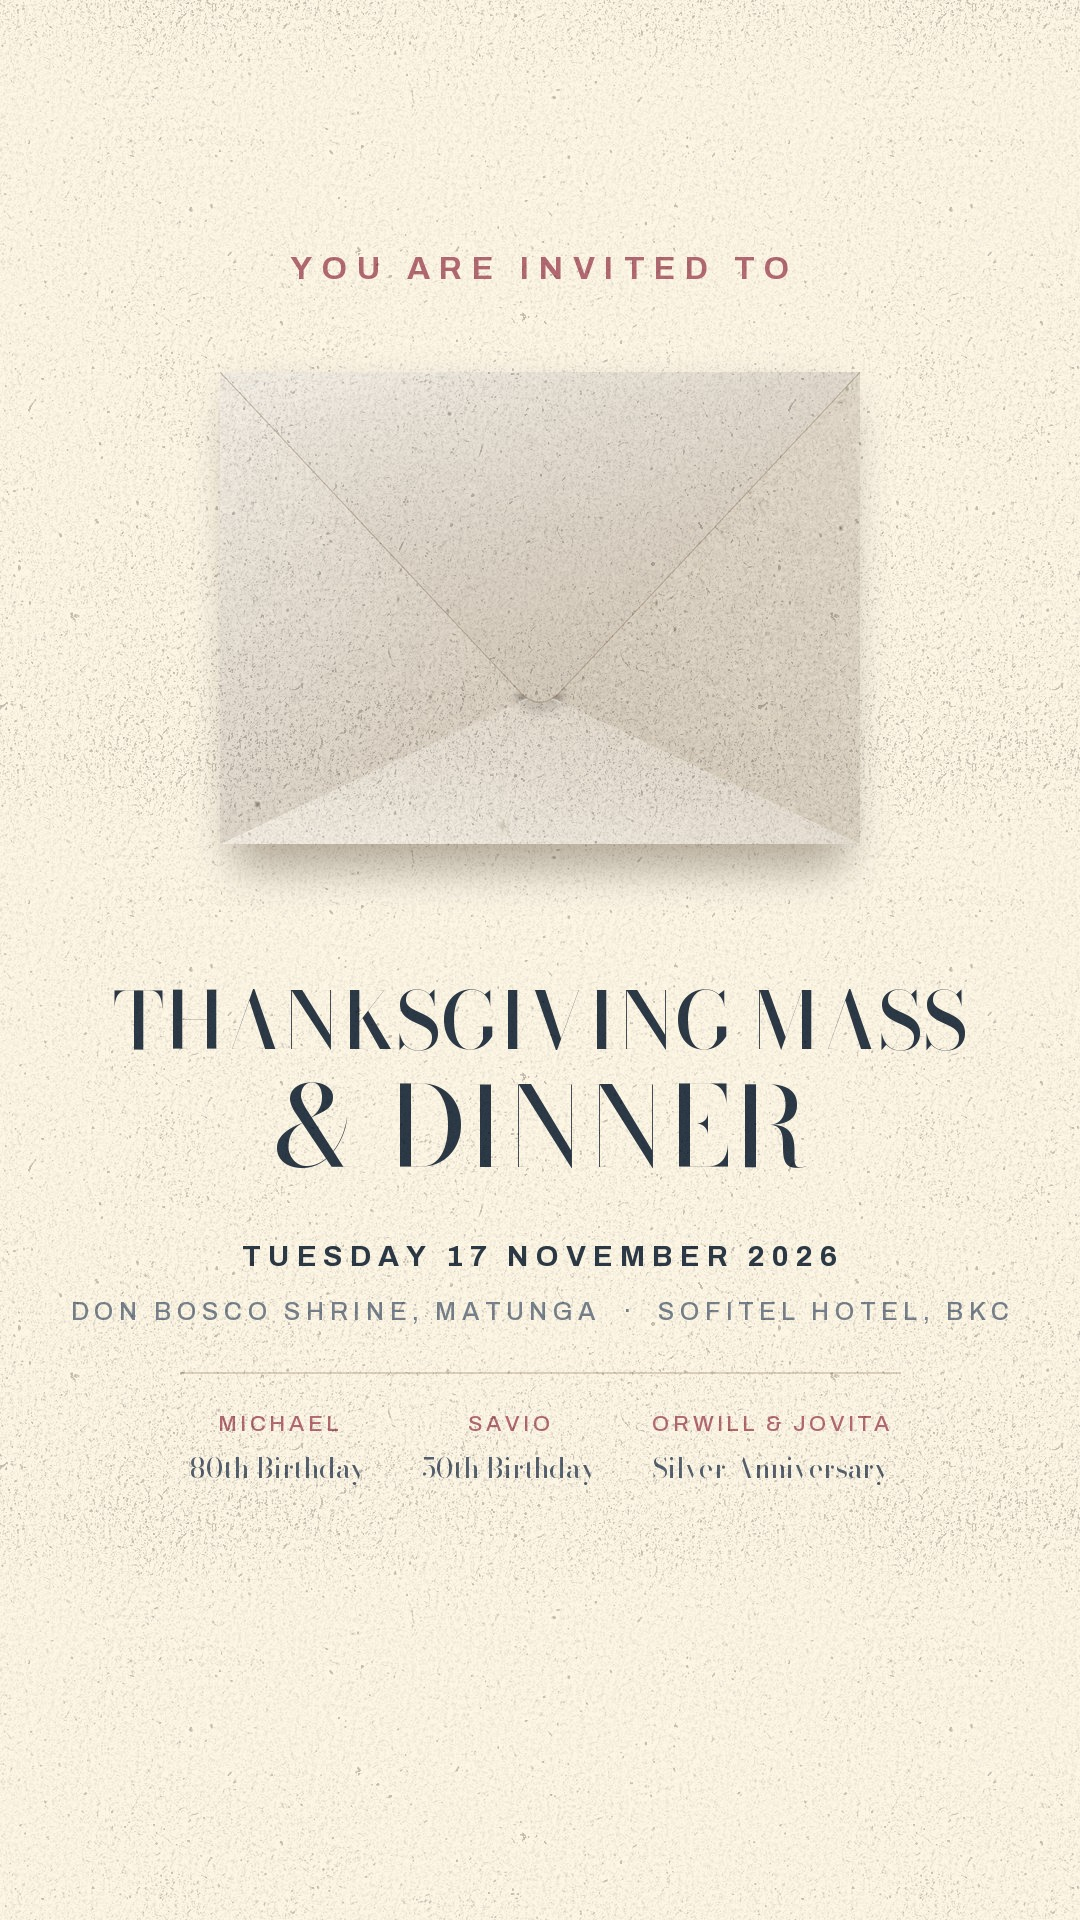
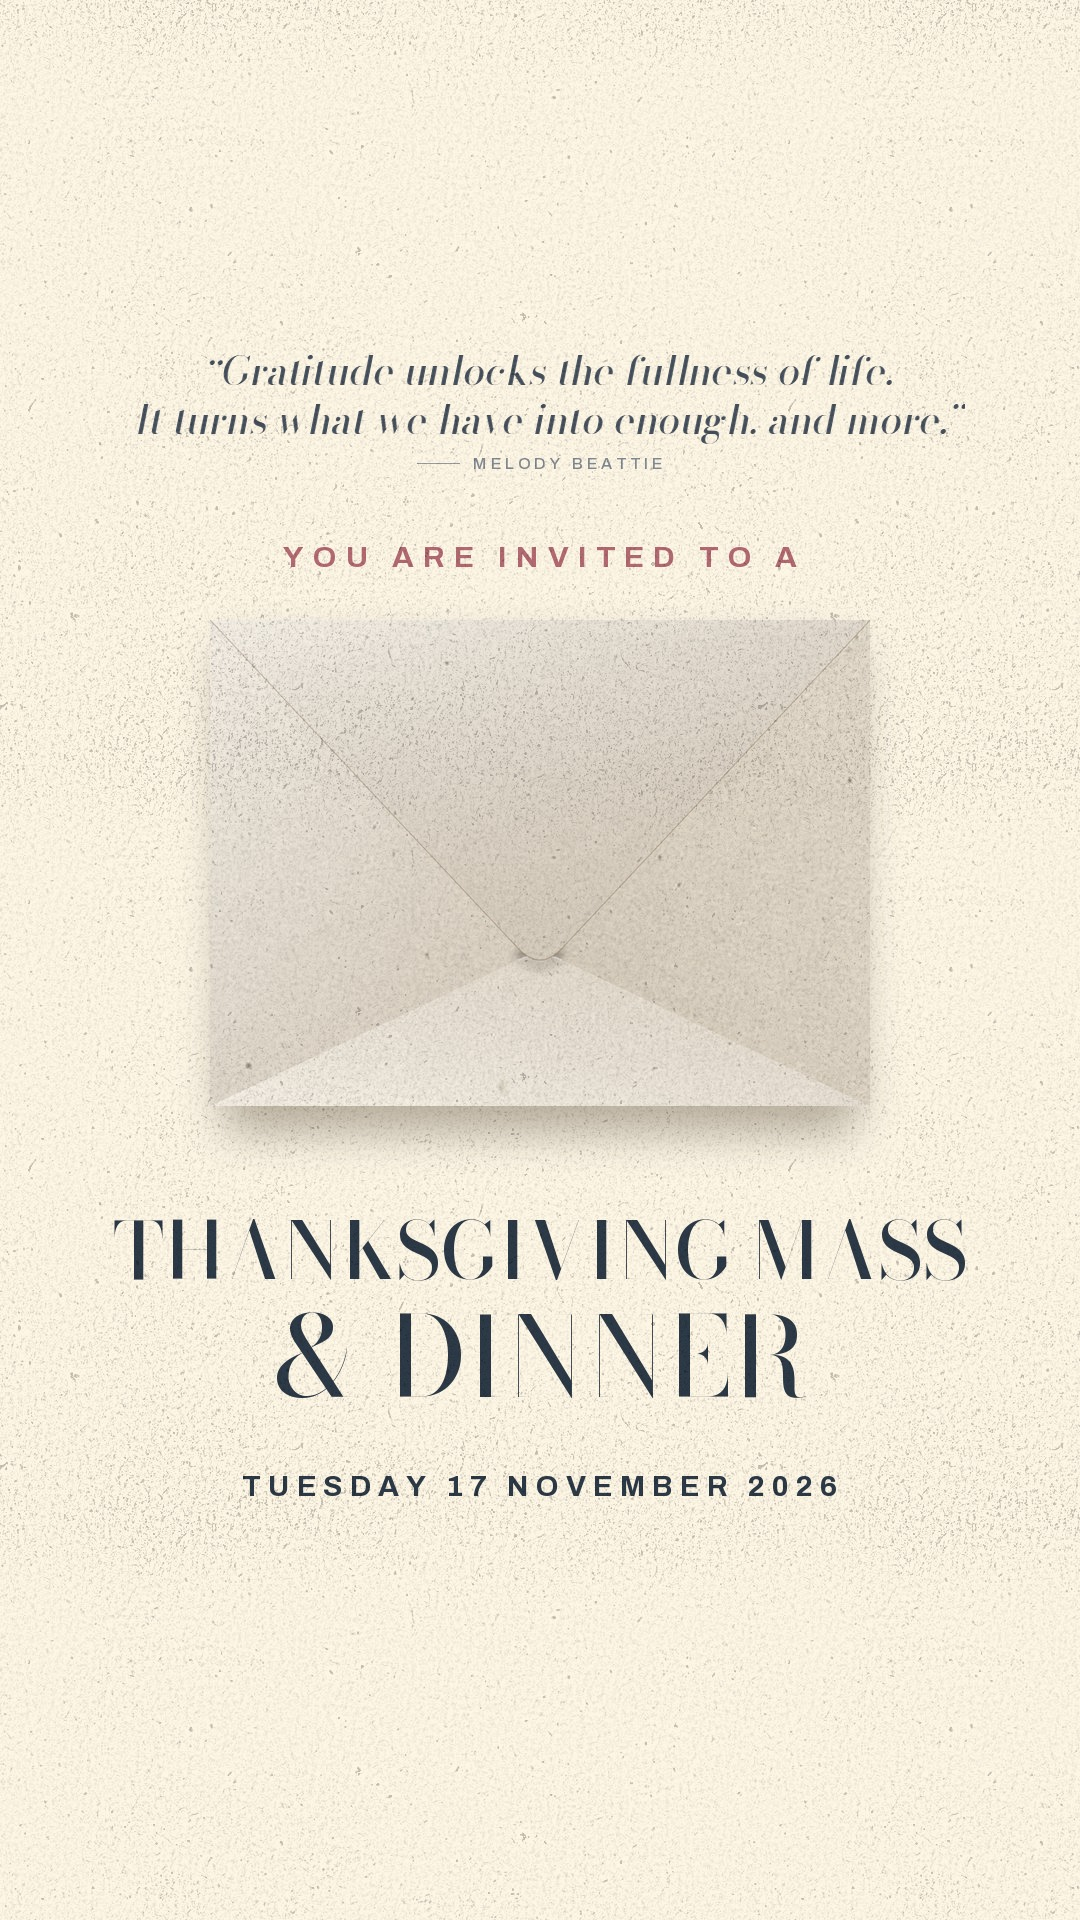
Share cards carry the quote, and nothing but the essentials
Each card now reads: the Melody Beattie epigraph, "You are invited to a",
the envelope, Thanksgiving Mass & Dinner, and the date. The venue lines
and the three-names row are gone; the envelope grows back into the room.
On the wide link preview the quote heads the text column.

diff --git a/tools/make-cards.py b/tools/make-cards.py
@@ -128,6 +128,45 @@ def fit(d, text, path, target, tr=0.0, cap=400):
 
 
 
+QUOTE = ('\u201cGratitude unlocks the fullness of life.',
+         'It turns what we have into enough, and more.\u201d')
+QUIET = (70, 80, 92)          # the lagoon knocked back, as on the page
+
+def slanted(text, font, fill, k=0.2):
+    """One line of Bodoni, sheared to an oblique -- the face ships no italic,
+    so this is the same synthesis the browser does on the site."""
+    tmp = ImageDraw.Draw(Image.new('L', (1, 1)))
+    l, t, r, b = tmp.textbbox((0, 0), text, font=font)
+    h = int(font.size * 1.4); pad = int(k * h) + 4
+    lay = Image.new('RGBA', (int(r) + pad + 4, h), (0, 0, 0, 0))
+    ImageDraw.Draw(lay).text((pad, 0), text, font=font, fill=fill + (255,))
+    return lay.transform(lay.size, Image.AFFINE, (1, k, -k * h, 0, 1, 0),
+                         resample=Image.BICUBIC), pad
+
+def epigraph(im, x, y, px, align='center', cap_px=None):
+    """The quote over a short rule and the source in micro caps. Returns
+    the y it ends at. `x` is the centre, or the left edge for align='left'."""
+    f = ImageFont.truetype(BODONI4, px)
+    for line in QUOTE:
+        lay, pad = slanted(line, f, QUIET)
+        lx = x - pad if align == 'left' else int(x - (lay.width - pad) / 2) - pad // 2
+        im.paste(lay, (int(lx), int(y)), lay)
+        y += int(px * 1.24)
+    cap_px = cap_px or max(11, int(px * 0.42))
+    fc = ImageFont.truetype(ARCHIVO5, cap_px)
+    d = ImageDraw.Draw(im)
+    cap = 'MELODY BEATTIE'; tr = cap_px * 0.24; rule = cap_px * 2.6; gap = cap_px * 0.9
+    tw = sum(d.textlength(c, font=fc) for c in cap) + tr * (len(cap) - 1)
+    total = rule + gap + tw
+    cx0 = x if align == 'left' else x - total / 2
+    y += int(px * 0.42)
+    ly = y + cap_px * 0.6
+    d.line([(cx0, ly), (cx0 + rule, ly)], fill=(150, 156, 162), width=max(1, cap_px // 10))
+    tx = cx0 + rule + gap
+    for c in cap:
+        d.text((tx, y), c, font=fc, fill=(130, 138, 146)); tx += d.textlength(c, font=fc) + tr
+    return y + cap_px
+
 THREE = (('MICHAEL', '80th Birthday'),
          ('SAVIO', '50th Birthday'),
          ('ORWILL & JOVITA', 'Silver Anniversary'))
@@ -191,8 +230,11 @@ def card(W, H, env_w, layout, path, jpeg=False):
     m = layout['margin']
     inner = W - 2*m
 
+    epigraph(im, cx, layout['quote_y'], layout['quote'])
+    d = ImageDraw.Draw(im)
+
     f_eye = ImageFont.truetype(ARCHIVO, layout['eyebrow'])
-    track(d, cx, layout['eyebrow_y'], 'YOU ARE INVITED TO', f_eye, ROSE, layout['eyebrow']*0.30)
+    track(d, cx, layout['eyebrow_y'], 'YOU ARE INVITED TO A', f_eye, ROSE, layout['eyebrow']*0.30)
 
     y = layout['head_y']
     for line in ('THANKSGIVING MASS', '& DINNER'):
@@ -204,15 +246,6 @@ def card(W, H, env_w, layout, path, jpeg=False):
     y = layout['foot_y']
     f_w = ImageFont.truetype(ARCHIVO, layout['when'])
     track(d, cx, y, 'TUESDAY 17 NOVEMBER 2026', f_w, LAGOON, layout['when']*0.24)
-    y += int(layout['when']*2.0)
-    f_p = ImageFont.truetype(ARCHIVO5, layout['where'])
-    track(d, cx, y, 'DON BOSCO SHRINE, MATUNGA  ·  SOFITEL HOTEL, BKC', f_p, (120,130,140), layout['where']*0.22)
-
-    # the three reasons, so the occasion is never in doubt
-    y = layout['who_y']
-    d.line([(cx-layout['rule'], y), (cx+layout['rule'], y)], fill=(222,208,186), width=2)
-    trio(d, cx-layout['rule'], cx+layout['rule'], int(y + layout['who']*1.8),
-         layout['who'], layout['occ'])
 
     # the same grain the page wears
     g = np.tile(np.asarray(_grain, np.float32),
@@ -226,21 +259,22 @@ def card(W, H, env_w, layout, path, jpeg=False):
 
 OUT = os.path.join(D, 'assets')
 
+
 # 4:5 -- the tallest a photo may be before WhatsApp crops it in the bubble,
 # so it is the biggest the card can ever render in a chat.
-print(card(1080, 1350, 620, dict(margin=96, env_y=214, eyebrow=30, eyebrow_y=126,
-      head=104, head_y=760, head_lead=1.06, foot_y=1010, when=27, where=23,
-      who_y=1150, who=21, occ=26, rule=330), os.path.join(OUT,'share-chat.jpg'), jpeg=True))
+print(card(1080, 1350, 600, dict(margin=96, quote_y=140, quote=34,
+      env_y=390, eyebrow=28, eyebrow_y=318,
+      head=98, head_y=904, head_lead=1.06, foot_y=1156, when=26), os.path.join(OUT,'share-chat.jpg'), jpeg=True))
 
 # 1:1 -- never cropped anywhere: chat, profile, a forwarded post
-print(card(1080, 1080, 466, dict(margin=96, env_y=150, eyebrow=27, eyebrow_y=90,
-      head=84, head_y=566, head_lead=1.06, foot_y=806, when=25, where=21,
-      who_y=922,  who=19, occ=24, rule=318), os.path.join(OUT,'share-square.jpg'), jpeg=True))
+print(card(1080, 1080, 460, dict(margin=96, quote_y=96, quote=28,
+      env_y=286, eyebrow=24, eyebrow_y=228,
+      head=82, head_y=682, head_lead=1.06, foot_y=910, when=24), os.path.join(OUT,'share-square.jpg'), jpeg=True))
 
 # 9:16 -- Status
-print(card(1080, 1920, 640, dict(margin=110, env_y=372, eyebrow=32, eyebrow_y=250,
-      head=110, head_y=960, head_lead=1.06, foot_y=1240, when=29, where=25,
-      who_y=1372, who=22, occ=28, rule=360), os.path.join(OUT,'share-status.jpg'), jpeg=True))
+print(card(1080, 1920, 660, dict(margin=110, quote_y=340, quote=40,
+      env_y=620, eyebrow=30, eyebrow_y=540,
+      head=110, head_y=1190, head_lead=1.06, foot_y=1470, when=29), os.path.join(OUT,'share-status.jpg'), jpeg=True))
 
 
 # ------------------------------------------------- the link preview, 1.91:1
@@ -250,7 +284,7 @@ def wide(path):
     im = Image.new('RGB', (W, H), VANILLA)
     env_w = 330
     env = envelope(env_w)
-    ex, ey = 96, (H - env.height)//2 + 26
+    ex, ey = 96, (H - env.height)//2 + 10
     sh = Image.new('RGBA', (W, H), (0,0,0,0))
     sh.paste((74,56,36,78), (ex+10, ey+18, ex+env_w-10, ey+env.height+14))
     sh = sh.filter(ImageFilter.GaussianBlur(env_w*0.04))
@@ -266,9 +300,12 @@ def wide(path):
             cx += d.textlength(c, font=font) + tr
 
     f_eye = ImageFont.truetype(ARCHIVO, 23)
-    ltrack(150, 'YOU ARE INVITED TO', f_eye, ROSE, 23*0.30)
+    # the quote heads the column, as it heads the page
+    epigraph(im, x, 112, 22, align='left', cap_px=11)
+    d = ImageDraw.Draw(im)
+    ltrack(236, 'YOU ARE INVITED TO A', f_eye, ROSE, 23*0.30)
 
-    y = 198
+    y = 284
     for line in ('THANKSGIVING MASS', '& DINNER'):
         size = min(62, fit(d, line, BODONI, inner))
         f = ImageFont.truetype(BODONI if line[0] != '&' else BODONI4, size)
@@ -276,13 +313,7 @@ def wide(path):
         y += int(size*1.08)
 
     f_w = ImageFont.truetype(ARCHIVO, 24)
-    ltrack(378, 'TUESDAY 17 NOVEMBER 2026', f_w, LAGOON, 24*0.24)
-    f_p = ImageFont.truetype(ARCHIVO5, 18)   # two venues, one per line
-    ltrack(418, 'MASS  ·  DON BOSCO SHRINE, MATUNGA', f_p, (120,130,140), 18*0.22)
-    ltrack(446, 'DINNER  ·  SOFITEL HOTEL, BKC', f_p, (120,130,140), 18*0.22)
-
-    d.line([(x, 480), (right, 480)], fill=(222,208,186), width=2)
-    trio(d, x, right, 512, 18, 21)
+    ltrack(464, 'TUESDAY 17 NOVEMBER 2026', f_w, LAGOON, 24*0.24)
 
     g = np.tile(np.asarray(_grain, np.float32),
                 (H//_grain.height+1, W//_grain.width+1))[:H, :W]
